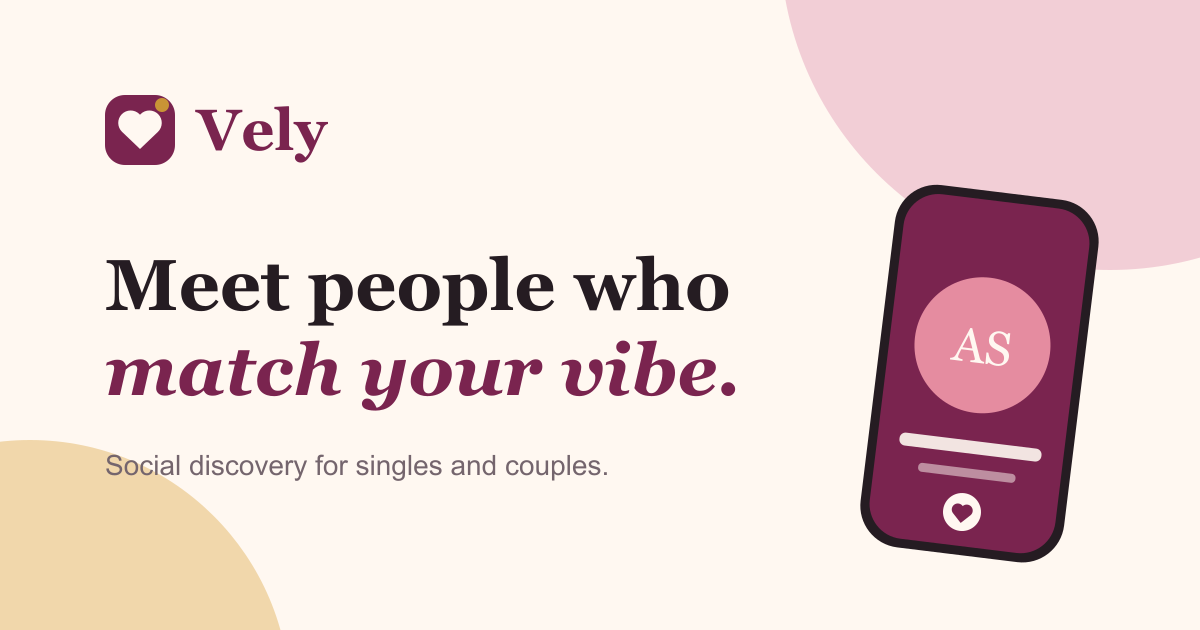
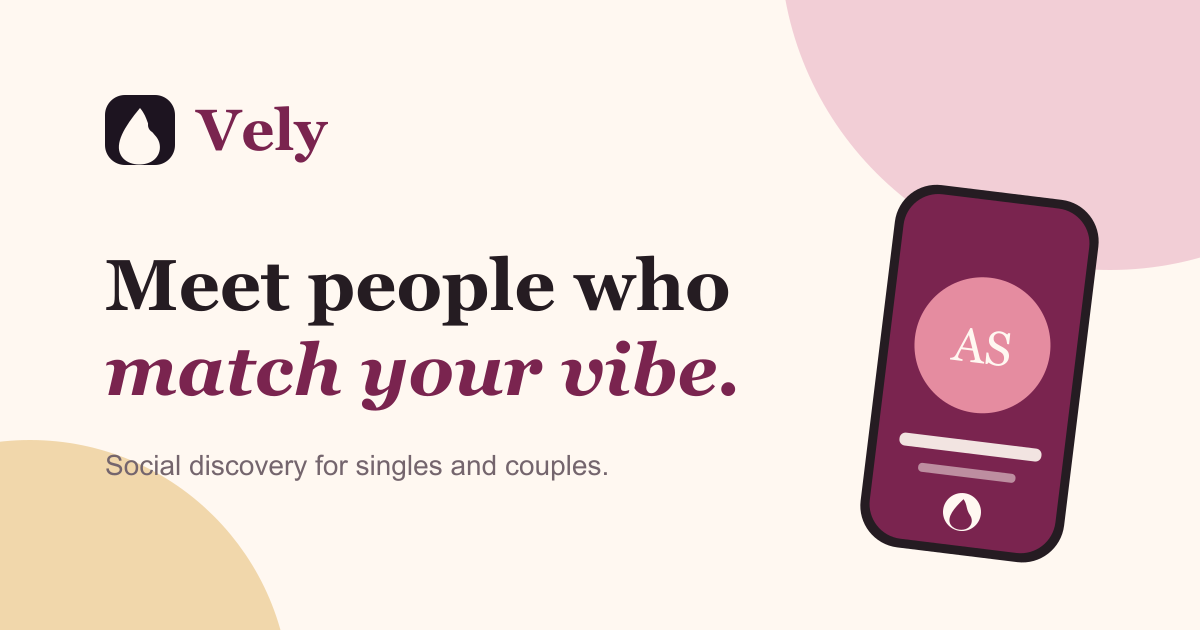
Apply Vely brand identity to website

Changed region(s): [[0.0617, 0.1508, 0.1542, 0.2714], [0.7708, 0.8143, 0.8325, 0.8444]]

diff --git a/app/page.tsx b/app/page.tsx
@@ -1,25 +1,240 @@
 import Link from "next/link";
+import Image from "next/image";
 import { Icon } from "@/components/icons";
 import { IosBadge, StoreButton } from "@/components/store-button";
 import { PhoneShowcase } from "@/components/phone-showcase";
 import { faqs, features } from "@/lib/site";
 
 export default function HomePage() {
-  const faqSchema = { "@context": "https://schema.org", "@type": "FAQPage", mainEntity: faqs.map((item) => ({ "@type": "Question", name: item.question, acceptedAnswer: { "@type": "Answer", text: item.answer } })) };
-  return <main id="main-content">
-    <section className="hero"><div className="hero-glow hero-glow--one"/><div className="hero-glow hero-glow--two"/><div className="shell hero-grid"><div className="hero-copy"><span className="eyebrow"><i/> Social discovery, made more human</span><h1>Meet people who <em>match your vibe.</em></h1><p>Vely helps singles and couples discover meaningful connections, new friendships, and shared experiences nearby.</p><div className="hero-actions"><StoreButton location="hero"/><IosBadge /></div><div className="trust-row"><span><Icon name="shield" size={17}/> Adults only, 18+</span><span><Icon name="check" size={17}/> You choose who connects</span></div></div><div className="hero-visual"><div className="floating-note floating-note--top"><Icon name="spark"/><span><strong>It’s a match</strong>Start a real conversation</span></div><PhoneShowcase/><div className="floating-note floating-note--bottom"><Icon name="shield"/><span><strong>Stay in control</strong>Block and report anytime</span></div></div></div></section>
+  const faqSchema = {
+    "@context": "https://schema.org",
+    "@type": "FAQPage",
+    mainEntity: faqs.map((item) => ({
+      "@type": "Question",
+      name: item.question,
+      acceptedAnswer: { "@type": "Answer", text: item.answer },
+    })),
+  };
 
-    <section className="audience-strip"><div className="shell audience-grid"><div><span>FOR SINGLES</span><strong>Find friendships and people who get you.</strong></div><i/><div><span>FOR COUPLES</span><strong>Meet other people and couples together.</strong></div></div></section>
+  return (
+    <main id="main-content">
+      <section className="hero">
+        <div className="hero-glow hero-glow--one" />
+        <div className="hero-glow hero-glow--two" />
+        <div className="shell hero-grid">
+          <div className="hero-copy">
+            <span className="eyebrow hero-brand-eyebrow">
+              <Image src="/brand-mark.png" alt="" width={18} height={18} />
+              Social discovery, made more human
+            </span>
+            <h1>
+              Meet people who <em>match your vibe.</em>
+            </h1>
+            <p>
+              Vely helps singles and couples discover meaningful connections,
+              new friendships, and shared experiences nearby.
+            </p>
+            <div className="hero-actions">
+              <StoreButton location="hero" />
+              <IosBadge />
+            </div>
+            <div className="trust-row">
+              <span>
+                <Icon name="shield" size={17} /> Adults only, 18+
+              </span>
+              <span>
+                <Icon name="check" size={17} /> You choose who connects
+              </span>
+            </div>
+          </div>
+          <div className="hero-visual">
+            <div className="floating-note floating-note--top">
+              <Icon name="spark" />
+              <span>
+                <strong>It’s a match</strong>
+                Start a real conversation
+              </span>
+            </div>
+            <PhoneShowcase />
+            <div className="floating-note floating-note--bottom">
+              <Icon name="shield" />
+              <span>
+                <strong>Stay in control</strong>
+                Block and report anytime
+              </span>
+            </div>
+          </div>
+        </div>
+      </section>
 
-    <section className="section" id="features"><div className="shell"><div className="section-heading"><span className="eyebrow">WHY VELY</span><h2>Less noise. More genuine connection.</h2><p>Thoughtful discovery tools help you decide who enters your circle and when the conversation begins.</p></div><div className="feature-grid">{features.map((feature, index) => <article className="feature-card" key={feature.title}><div className="feature-icon"><Icon name={feature.icon}/></div><span>0{index + 1}</span><h3>{feature.title}</h3><p>{feature.text}</p></article>)}</div></div></section>
+      <section className="audience-strip">
+        <div className="shell audience-grid">
+          <div>
+            <span>FOR SINGLES</span>
+            <strong>Find friendships and people who get you.</strong>
+          </div>
+          <i />
+          <div>
+            <span>FOR COUPLES</span>
+            <strong>Meet other people and couples together.</strong>
+          </div>
+        </div>
+      </section>
 
-    <section className="section section--tinted"><div className="shell split"><div className="showcase-stack"><PhoneShowcase variant="chat"/><div className="connection-orbit"><span>RJ</span><i/><span>AS</span></div></div><div className="split-copy"><span className="eyebrow">HOW IT WORKS</span><h2>From nearby to saying hi.</h2><ol className="steps"><li><span>1</span><div><h3>Show up as yourself</h3><p>Create a single or couple profile, add your interests, and choose what kind of connections you want.</p></div></li><li><span>2</span><div><h3>Discover with intention</h3><p>Explore nearby profiles and privately decide who feels right for you.</p></div></li><li><span>3</span><div><h3>Match, then message</h3><p>When the interest is mutual, start chatting and take the connection at your own pace.</p></div></li></ol></div></div></section>
+      <section className="section" id="features">
+        <div className="shell">
+          <div className="section-heading">
+            <span className="eyebrow">WHY VELY</span>
+            <h2>Less noise. More genuine connection.</h2>
+            <p>
+              Thoughtful discovery tools help you decide who enters your circle
+              and when the conversation begins.
+            </p>
+          </div>
+          <div className="feature-grid">
+            {features.map((feature, index) => (
+              <article className="feature-card" key={feature.title}>
+                <div className="feature-icon">
+                  <Icon name={feature.icon} />
+                </div>
+                <span>0{index + 1}</span>
+                <h3>{feature.title}</h3>
+                <p>{feature.text}</p>
+              </article>
+            ))}
+          </div>
+        </div>
+      </section>
 
-    <section className="section safety-preview"><div className="shell split split--reverse"><div className="split-copy"><span className="eyebrow">SAFETY, BUILT IN</span><h2>Your boundaries belong to you.</h2><p>Every connection should begin with choice. Vely gives you practical tools to manage who can reach you and act when something does not feel right.</p><ul className="check-list"><li><Icon name="check"/> Verification signals on eligible profiles</li><li><Icon name="check"/> In-app reporting and blocking</li><li><Icon name="check"/> Private likes and mutual matching</li><li><Icon name="check"/> Clear adults-only community standards</li></ul><Link className="text-link" href="/safety">Explore Vely safety <Icon name="arrow" size={18}/></Link></div><div className="profile-showcase"><div className="shield-halo"><Icon name="shield" size={40}/></div><PhoneShowcase variant="profile"/></div></div></section>
+      <section className="section section--tinted">
+        <div className="shell split">
+          <div className="showcase-stack">
+            <PhoneShowcase variant="chat" />
+            <div className="connection-orbit">
+              <span>RJ</span>
+              <i />
+              <span>AS</span>
+            </div>
+          </div>
+          <div className="split-copy">
+            <span className="eyebrow">HOW IT WORKS</span>
+            <h2>From nearby to saying hi.</h2>
+            <ol className="steps">
+              <li>
+                <span>1</span>
+                <div>
+                  <h3>Show up as yourself</h3>
+                  <p>
+                    Create a single or couple profile, add your interests, and
+                    choose what kind of connections you want.
+                  </p>
+                </div>
+              </li>
+              <li>
+                <span>2</span>
+                <div>
+                  <h3>Discover with intention</h3>
+                  <p>
+                    Explore nearby profiles and privately decide who feels right
+                    for you.
+                  </p>
+                </div>
+              </li>
+              <li>
+                <span>3</span>
+                <div>
+                  <h3>Match, then message</h3>
+                  <p>
+                    When the interest is mutual, start chatting and take the
+                    connection at your own pace.
+                  </p>
+                </div>
+              </li>
+            </ol>
+          </div>
+        </div>
+      </section>
 
-    <section className="section faq-section"><div className="shell faq-grid"><div className="section-heading section-heading--left"><span className="eyebrow">GOOD TO KNOW</span><h2>Questions, meet answers.</h2><p>Everything you need before getting started.</p><Link className="text-link" href="/support">Visit support <Icon name="arrow" size={18}/></Link></div><div className="faq-list">{faqs.map((faq) => <details key={faq.question}><summary>{faq.question}<span>+</span></summary><p>{faq.answer}</p></details>)}</div></div></section>
+      <section className="section safety-preview">
+        <div className="shell split split--reverse">
+          <div className="split-copy">
+            <span className="eyebrow">SAFETY, BUILT IN</span>
+            <h2>Your boundaries belong to you.</h2>
+            <p>
+              Every connection should begin with choice. Vely gives you practical
+              tools to manage who can reach you and act when something does not
+              feel right.
+            </p>
+            <ul className="check-list">
+              <li>
+                <Icon name="check" /> Verification signals on eligible profiles
+              </li>
+              <li>
+                <Icon name="check" /> In-app reporting and blocking
+              </li>
+              <li>
+                <Icon name="check" /> Private likes and mutual matching
+              </li>
+              <li>
+                <Icon name="check" /> Clear adults-only community standards
+              </li>
+            </ul>
+            <Link className="text-link" href="/safety">
+              Explore Vely safety <Icon name="arrow" size={18} />
+            </Link>
+          </div>
+          <div className="profile-showcase">
+            <div className="shield-halo">
+              <Icon name="shield" size={40} />
+            </div>
+            <PhoneShowcase variant="profile" />
+          </div>
+        </div>
+      </section>
 
-    <section className="download-cta"><div className="shell cta-inner"><div><span className="eyebrow eyebrow--light">YOUR NEXT CONNECTION</span><h2>There are people worth meeting.</h2><p>Discover who is nearby and see where a simple hello can lead.</p></div><div><StoreButton location="footer_cta"/><span className="cta-note">Available on Android · iOS coming soon</span></div></div></section>
-    <script type="application/ld+json" dangerouslySetInnerHTML={{ __html: JSON.stringify(faqSchema) }}/>
-  </main>;
+      <section className="section faq-section">
+        <div className="shell faq-grid">
+          <div className="section-heading section-heading--left">
+            <span className="eyebrow">GOOD TO KNOW</span>
+            <h2>Questions, meet answers.</h2>
+            <p>Everything you need before getting started.</p>
+            <Link className="text-link" href="/support">
+              Visit support <Icon name="arrow" size={18} />
+            </Link>
+          </div>
+          <div className="faq-list">
+            {faqs.map((faq) => (
+              <details key={faq.question}>
+                <summary>
+                  {faq.question}
+                  <span>+</span>
+                </summary>
+                <p>{faq.answer}</p>
+              </details>
+            ))}
+          </div>
+        </div>
+      </section>
+
+      <section className="download-cta">
+        <div className="shell cta-inner">
+          <div>
+            <Image className="cta-brand-mark" src="/brand-mark-white.png" alt="" width={58} height={58} />
+            <span className="eyebrow eyebrow--light">YOUR NEXT CONNECTION</span>
+            <h2>There are people worth meeting.</h2>
+            <p>Discover who is nearby and see where a simple hello can lead.</p>
+          </div>
+          <div>
+            <StoreButton location="footer_cta" />
+            <span className="cta-note">Available on Android · iOS coming soon</span>
+          </div>
+        </div>
+      </section>
+
+      <script
+        type="application/ld+json"
+        dangerouslySetInnerHTML={{ __html: JSON.stringify(faqSchema) }}
+      />
+    </main>
+  );
 }

diff --git a/app/globals.css b/app/globals.css
@@ -17,7 +17,7 @@ h1{font-size:clamp(3rem,7vw,6.6rem)}h2{font-size:clamp(2.3rem,4.5vw,4.25rem)}h3{
 .text-link{display:inline-flex;align-items:center;gap:9px;color:var(--wine);font-family:"Montserrat";font-weight:700}.text-link:hover{gap:13px}.text-link svg{transition:.2s}
 
 /* Header */
-.site-header{position:sticky;z-index:50;top:0;border-bottom:1px solid rgba(234,219,213,.8);background:rgba(255,248,241,.9);backdrop-filter:blur(18px)}.header-inner{height:80px;display:flex;align-items:center;justify-content:space-between}.brand{display:inline-flex;align-items:center;gap:10px;color:var(--wine);font-family:"Playfair Display";font-size:1.75rem;font-weight:700;line-height:1}.brand-mark{width:34px;height:34px;display:grid;place-items:center;border-radius:11px;background:var(--wine);color:white;transform:rotate(-4deg)}.brand-mark svg{fill:white;stroke-width:0}.site-nav{display:flex;align-items:center;gap:34px}.site-nav>a:not(.store-button){font-family:"Montserrat";font-size:.86rem;font-weight:600}.site-nav>a:not(.store-button):hover{color:var(--wine)}.menu-button{display:none;border:0;background:none;color:var(--wine)}
+.site-header{position:sticky;z-index:50;top:0;border-bottom:1px solid rgba(234,219,213,.8);background:rgba(255,248,241,.9);backdrop-filter:blur(18px)}.header-inner{height:80px;display:flex;align-items:center;justify-content:space-between}.brand{display:inline-flex;align-items:center;gap:10px;color:var(--wine);font-family:"Playfair Display";font-size:1.75rem;font-weight:700;line-height:1}.brand-mark{width:34px;height:34px;display:grid;place-items:center}.brand-mark img{width:100%;height:100%;object-fit:contain}.site-nav{display:flex;align-items:center;gap:34px}.site-nav>a:not(.store-button){font-family:"Montserrat";font-size:.86rem;font-weight:600}.site-nav>a:not(.store-button):hover{color:var(--wine)}.menu-button{display:none;border:0;background:none;color:var(--wine)}
 .store-button{width:max-content;min-height:58px;display:flex;align-items:center;gap:12px;padding:8px 15px;border-radius:16px;background:var(--ink);color:white;box-shadow:0 10px 22px rgba(37,28,34,.16);font-family:"Montserrat";transition:.2s}.store-button:hover{transform:translateY(-2px);box-shadow:0 14px 28px rgba(37,28,34,.23)}.store-button small,.ios-badge small{display:block;font-size:.55rem;letter-spacing:.11em}.store-button strong,.ios-badge strong{display:block;font-size:1rem;line-height:1.2}.play-mark{width:26px;height:30px;display:grid;place-items:center;color:#ffd354;font-size:1.25rem}.store-button--compact{min-height:44px;padding:6px 12px;border-radius:13px}.store-button--compact strong{font-size:.82rem}.store-button--compact small{font-size:.47rem}.store-button--compact .play-mark{font-size:1rem;width:18px}.store-button--compact svg{display:none}.ios-badge{width:max-content;min-height:58px;display:flex;align-items:center;gap:12px;padding:8px 17px;border:1px solid var(--border);border-radius:16px;background:rgba(255,255,255,.65);color:var(--muted)}.ios-badge>span:first-child{font-size:1.5rem;color:var(--muted)}
 
 /* Hero */
@@ -39,6 +39,17 @@ h1{font-size:clamp(3rem,7vw,6.6rem)}h2{font-size:clamp(2.3rem,4.5vw,4.25rem)}h3{
 
 /* Footer */
 .site-footer{padding:75px 0 25px;background:var(--ink);color:white}.footer-grid{display:grid;grid-template-columns:2fr 1fr 1fr;gap:70px;padding-bottom:55px}.footer-intro p{max-width:370px;margin:24px 0 12px;color:#cdbfc6}.footer-intro>a{color:#f4cad5}.site-footer .brand{color:white}.site-footer .brand-mark{background:var(--coral)}.footer-group{display:flex;flex-direction:column;gap:10px}.footer-group h2{margin-bottom:10px;color:#e5d9df;font-family:"Montserrat";font-size:.7rem;letter-spacing:.13em;text-transform:uppercase}.footer-group a{color:#cdbfc6}.footer-group a:hover{color:white}.footer-bottom{display:flex;justify-content:space-between;padding-top:24px;border-top:1px solid #493d44;color:#9f9098;font-size:.78rem}
+
+/* Vely brand identity */
+.brand-mark{background:transparent!important;border-radius:0!important;transform:none!important}
+.brand-mark img{width:100%;height:100%;object-fit:contain}
+.site-footer .brand-mark{background:transparent!important}
+.hero-brand-eyebrow img{filter:drop-shadow(0 4px 10px rgba(230,95,114,.18))}
+.mini-logo{display:inline-flex;align-items:center;gap:5px}
+.mini-logo img,.avatar-dot img{object-fit:contain}
+.page-hero-mark{margin:0 auto 18px;filter:drop-shadow(0 12px 28px rgba(122,36,79,.16))}
+.cta-brand-mark{margin-bottom:16px;filter:drop-shadow(0 12px 26px rgba(0,0,0,.18))}
+.not-found-mark{margin:0 auto 22px;filter:drop-shadow(0 14px 28px rgba(122,36,79,.18))}
 
 @media(max-width:1000px){.site-nav{gap:20px}.site-nav>a:not(.store-button){display:none}.hero-grid{gap:30px}.hero h1{font-size:4.5rem}.feature-grid{grid-template-columns:repeat(2,1fr)}.split{gap:50px}.support-grid{grid-template-columns:repeat(2,1fr)}}
 @media(max-width:760px){.shell{width:min(100% - 28px,1180px)}.section{padding:78px 0}.header-inner{height:68px}.menu-button{display:block}.site-nav{position:absolute;top:68px;left:0;width:100%;display:none;flex-direction:column;align-items:stretch;gap:0;padding:15px 20px 25px;border-bottom:1px solid var(--border);background:var(--cream)}.site-nav--open{display:flex}.site-nav>a:not(.store-button){display:block;padding:14px 0;border-bottom:1px solid var(--border)}.site-nav .store-button{margin-top:15px}.hero{min-height:0;padding-top:65px}.hero-grid{grid-template-columns:1fr}.hero h1{font-size:clamp(3.2rem,15vw,5rem)}.hero-copy>p{font-size:1.05rem}.trust-row{flex-direction:column;gap:9px}.hero-visual{min-height:590px;margin-top:20px}.hero-visual:before{width:330px;height:400px}.floating-note--top{left:0}.floating-note--bottom{right:0}.phone{width:260px;height:535px}.profile-art{height:195px}.messages{height:330px}.audience-grid{grid-template-columns:1fr;gap:20px}.audience-grid i{height:1px}.audience-grid div{display:block}.audience-grid span{display:block;margin-bottom:5px}.feature-grid,.split,.faq-grid,.editorial-grid,.values-grid,.safety-grid,.support-grid{grid-template-columns:1fr}.feature-card{min-height:260px}.feature-icon{margin-bottom:38px}.split{gap:25px}.split--reverse .split-copy{order:initial}.showcase-stack,.profile-showcase{min-height:610px}.showcase-stack:before,.profile-showcase:before{width:320px;height:450px}.faq-grid{gap:45px}.cta-inner,.about-callout{align-items:flex-start;flex-direction:column}.download-cta{padding:70px 0}.footer-grid{grid-template-columns:1fr 1fr}.footer-intro{grid-column:1/-1}.page-hero{padding:85px 0 70px}.editorial-grid{gap:20px}.report-panel,.contact-card{grid-template-columns:1fr;padding:30px}.legal-layout{padding-block:40px 75px}.legal-card{padding:30px 22px}.footer-bottom{flex-direction:column;gap:5px}.mini-links{flex-direction:column;gap:15px}.not-found>div{flex-direction:column}.not-found .button{width:100%}}

diff --git a/app/not-found.tsx b/app/not-found.tsx
@@ -1,2 +1,17 @@
 import Link from "next/link";
-export default function NotFound() { return <main id="main-content" className="not-found shell"><span className="eyebrow">404</span><h1>This connection went missing.</h1><p>The page may have moved, but there is plenty more to discover.</p><div><Link className="button" href="/">Back home</Link><Link className="button button--ghost" href="/support">Get support</Link></div></main>; }
+import Image from "next/image";
+
+export default function NotFound() {
+  return (
+    <main id="main-content" className="not-found shell">
+      <Image className="not-found-mark" src="/brand-mark.png" alt="" width={70} height={70} />
+      <span className="eyebrow">404</span>
+      <h1>This connection went missing.</h1>
+      <p>The page may have moved, but there is plenty more to discover.</p>
+      <div>
+        <Link className="button" href="/">Back home</Link>
+        <Link className="button button--ghost" href="/support">Get support</Link>
+      </div>
+    </main>
+  );
+}

diff --git a/components/phone-showcase.tsx b/components/phone-showcase.tsx
@@ -1,3 +1,4 @@
+import Image from "next/image";
 import { Icon } from "./icons";
 
 export function PhoneShowcase({ variant = "discover" }: { variant?: "discover" | "chat" | "profile" }) {
@@ -5,7 +6,10 @@ export function PhoneShowcase({ variant = "discover" }: { variant?: "discover" |
     <div className={`phone phone--${variant}`} aria-label={`Illustration of Vely's ${variant} screen`} role="img">
       <div className="phone-speaker" />
       <div className="phone-screen">
-        <div className="app-top"><span className="mini-logo">Vely</span><span className="avatar-dot">V</span></div>
+        <div className="app-top">
+          <span className="mini-logo"><Image src="/brand-mark.png" alt="" width={18} height={18} />Vely</span>
+          <span className="avatar-dot"><Image src="/brand-mark.png" alt="" width={15} height={15} /></span>
+        </div>
         {variant === "discover" && <DiscoverScreen />}
         {variant === "chat" && <ChatScreen />}
         {variant === "profile" && <ProfileScreen />}

diff --git a/app/layout.tsx b/app/layout.tsx
@@ -19,7 +19,7 @@ export const metadata: Metadata = {
   alternates: { canonical: SITE_URL },
   openGraph: { type: "website", siteName: "Vely", title: "Meet people who match your vibe", description: "Social discovery for singles and couples.", url: SITE_URL, images: [{ url: `${SITE_URL}/og-image.png`, width: 1200, height: 630, alt: "Vely — Meet people who match your vibe" }] },
   twitter: { card: "summary_large_image", title: "Vely — Meet people who match your vibe", description: "Social discovery for singles and couples.", images: [`${SITE_URL}/og-image.png`] },
-  icons: { icon: `${SITE_URL}/icon.svg` },
+  icons: { icon: `${SITE_URL}/app-icon.png`, apple: `${SITE_URL}/app-icon.png` },
 };
 
 export const viewport: Viewport = { themeColor: "#7A244F", colorScheme: "light" };

diff --git a/components/icons.tsx b/components/icons.tsx
@@ -1,3 +1,5 @@
+import Image from "next/image";
+
 type IconProps = { name: string; size?: number; className?: string };
 
 export function Icon({ name, size = 24, className }: IconProps) {
@@ -21,7 +23,9 @@ export function Icon({ name, size = 24, className }: IconProps) {
 export function Logo({ compact = false }: { compact?: boolean }) {
   return (
     <span className="brand" aria-label="Vely">
-      <span className="brand-mark" aria-hidden="true"><Icon name="heart" size={compact ? 17 : 20} /></span>
+      <span className="brand-mark" aria-hidden="true">
+        <Image src="/brand-mark.png" alt="" width={compact ? 20 : 24} height={compact ? 20 : 24} />
+      </span>
       <span>Vely</span>
     </span>
   );

diff --git a/components/page-hero.tsx b/components/page-hero.tsx
@@ -1,3 +1,5 @@
+import Image from "next/image";
+
 export function PageHero({ eyebrow, title, description }: { eyebrow: string; title: string; description: string }) {
-  return <section className="page-hero"><div className="shell narrow"><span className="eyebrow">{eyebrow}</span><h1>{title}</h1><p>{description}</p></div></section>;
+  return <section className="page-hero"><div className="shell narrow"><Image className="page-hero-mark" src="/brand-mark.png" alt="" width={54} height={54} /><span className="eyebrow">{eyebrow}</span><h1>{title}</h1><p>{description}</p></div></section>;
 }
